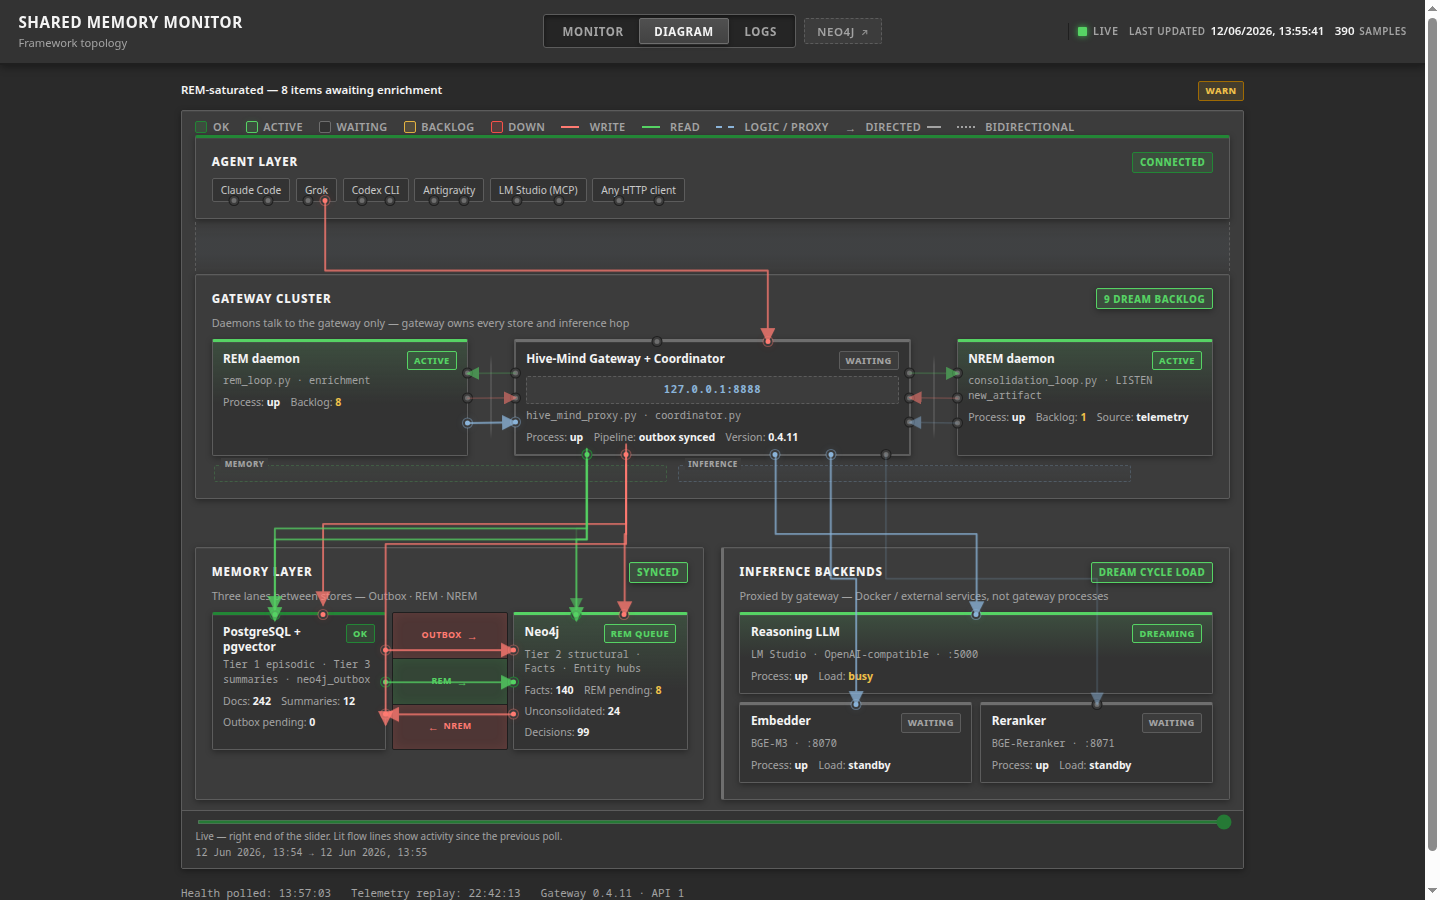
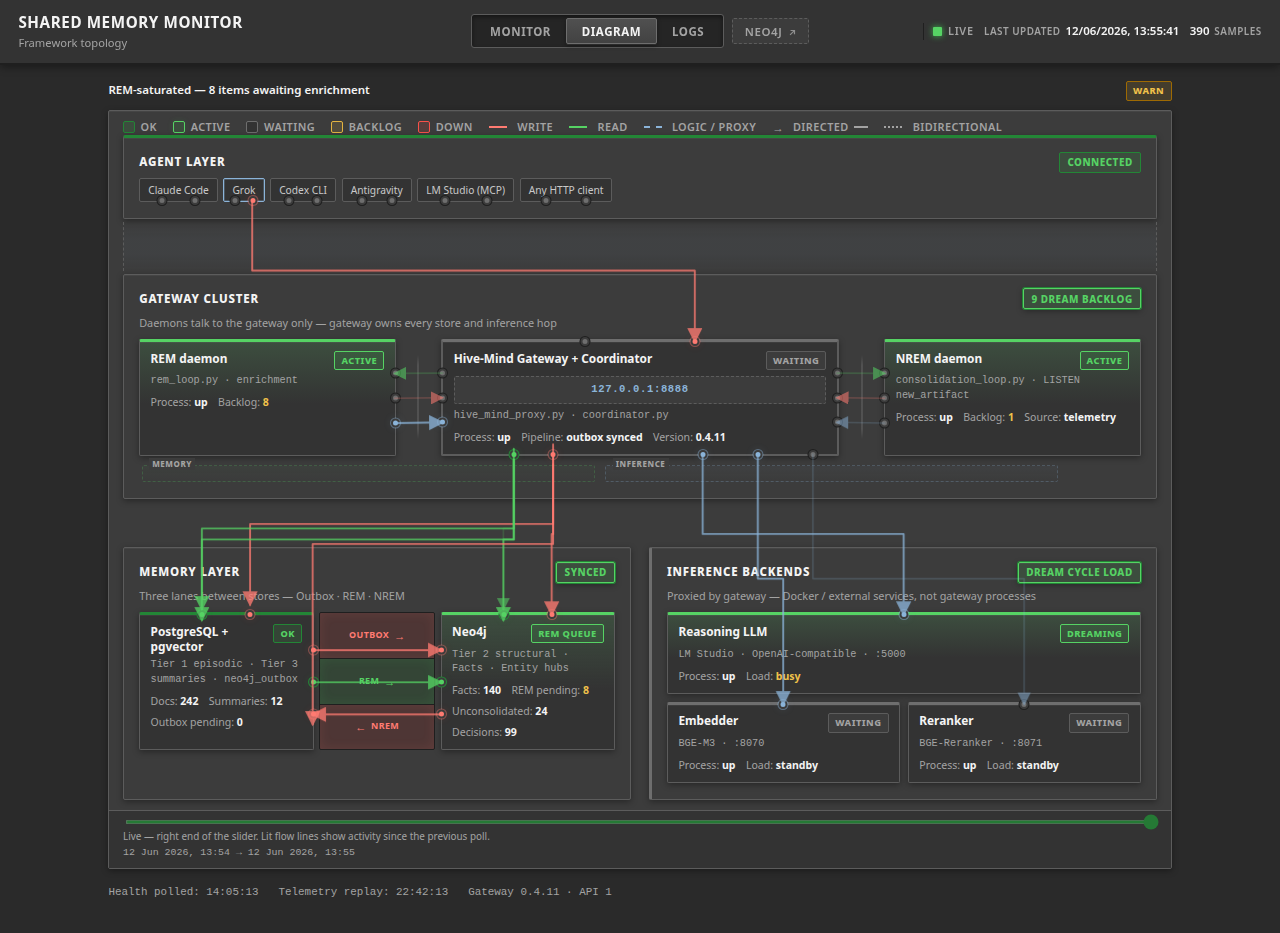
Release v0.3.7: full-page diagram screenshot
Replace viewport-only Chrome capture with Playwright full-page shots
that wait for diagram history and flows to load. Regenerate README
images so GitHub shows the complete gateway topology outline.

diff --git a/static/diagram.html b/static/diagram.html
@@ -1227,6 +1227,10 @@ async function boot() {
   tlIndex = Math.max(0, sampleCount() - 1);
   syncHealthPolling();
   applyView();
+  if (new URLSearchParams(location.search).has("capture")) {
+    await new Promise((resolve) => requestAnimationFrame(() => requestAnimationFrame(resolve)));
+    document.body.dataset.diagramReady = "1";
+  }
 }
 boot();
 window.addEventListener("resize", () => applyView());

diff --git a/scripts/capture_screenshots.py b/scripts/capture_screenshots.py
@@ -1,0 +1,56 @@
+#!/usr/bin/env python3
+"""Capture README screenshots from a running monitor (full-page, data-aware)."""
+from __future__ import annotations
+
+import os
+import sys
+import urllib.error
+import urllib.request
+from pathlib import Path
+
+from playwright.sync_api import sync_playwright
+
+ROOT = Path(__file__).resolve().parent.parent
+OUT = ROOT / "docs" / "images"
+BASE = os.environ.get("SM_SCREENSHOT_URL", "http://127.0.0.1:8765").rstrip("/")
+
+PAGES: list[tuple[str, str, dict[str, int]]] = [
+    ("dashboard.png", "/", {"width": 1440, "height": 900}),
+    ("diagram.png", "/diagram?capture=1", {"width": 1280, "height": 900}),
+    ("logs.png", "/logs", {"width": 1440, "height": 900}),
+]
+
+
+def _probe() -> None:
+    try:
+        with urllib.request.urlopen(f"{BASE}/api/meta", timeout=8) as resp:
+            if resp.status != 200:
+                raise urllib.error.URLError(f"HTTP {resp.status}")
+    except Exception as exc:
+        print(f"Monitor not reachable at {BASE} — start it first:", file=sys.stderr)
+        print("  ./scripts/run-loop.sh --serve --interval 600", file=sys.stderr)
+        print(f"  ({exc})", file=sys.stderr)
+        sys.exit(1)
+
+
+def main() -> None:
+    _probe()
+    OUT.mkdir(parents=True, exist_ok=True)
+
+    with sync_playwright() as p:
+        browser = p.chromium.launch(headless=True)
+        for name, path, viewport in PAGES:
+            page = browser.new_page(viewport=viewport)
+            page.goto(f"{BASE}{path}", wait_until="networkidle", timeout=60_000)
+            if "diagram" in path:
+                page.wait_for_selector("body[data-diagram-ready='1']", timeout=60_000)
+            target = OUT / name
+            page.screenshot(path=str(target), full_page=True)
+            print(f"wrote {target}")
+        browser.close()
+
+    print("Screenshots ready under docs/images/ — commit and push to update the GitHub project page.")
+
+
+if __name__ == "__main__":
+    main()

diff --git a/src/sm_telemetry_monitor/__init__.py b/src/sm_telemetry_monitor/__init__.py
@@ -1,3 +1,3 @@
 """Shared-memory telemetry monitor — poll gateway stats and chart progress."""
 
-__version__ = "0.3.6"
+__version__ = "0.3.7"

diff --git a/CHANGELOG.md b/CHANGELOG.md
@@ -6,6 +6,14 @@ Format based on [Keep a Changelog](https://keepachangelog.com/en/1.1.0/).
 
 ## [Unreleased]
 
+## [0.3.7] - 2026-06-12
+
+### Fixed
+
+- **README diagram screenshot** — `capture-screenshots.sh` now uses Playwright
+  full-page capture and waits for diagram telemetry/history before shooting
+  (fixes cropped/outdated topology on GitHub)
+
 ## [0.3.6] - 2026-06-12
 
 ### Changed
@@ -123,7 +131,8 @@ Format based on [Keep a Changelog](https://keepachangelog.com/en/1.1.0/).
 - `.env` and `.grok/` gitignored; doctor never prints credential values
 - Error sanitization for tokens and connection strings
 
-[Unreleased]: https://github.com/KanenasInGreece/Shared_Memory_Monitor/compare/v0.3.6...main
+[Unreleased]: https://github.com/KanenasInGreece/Shared_Memory_Monitor/compare/v0.3.7...main
+[0.3.7]: https://github.com/KanenasInGreece/Shared_Memory_Monitor/releases/tag/v0.3.7
 [0.3.6]: https://github.com/KanenasInGreece/Shared_Memory_Monitor/releases/tag/v0.3.6
 [0.3.5]: https://github.com/KanenasInGreece/Shared_Memory_Monitor/releases/tag/v0.3.5
 [0.3.4]: https://github.com/KanenasInGreece/Shared_Memory_Monitor/releases/tag/v0.3.4

diff --git a/README.md b/README.md
@@ -36,7 +36,7 @@ Three tabs: **Gateway daemons** (`journalctl --user`), **REM audit** (outbox rev
 
 ![Logs — gateway journal, REM audit, and agent audit with filters](docs/images/logs.png)
 
-Regenerate after UI changes: `./scripts/capture-screenshots.sh` (requires headless Chrome and a running monitor).
+Regenerate after UI changes: `./scripts/capture-screenshots.sh` (uses Playwright via `uv`, full-page capture, waits for live diagram data — monitor must be running).
 
 ## Prerequisites
 
@@ -461,7 +461,8 @@ shared-memory-monitor/
 │   ├── install-systemd-user.sh  # user unit → ~/.config/systemd/user/
 │   ├── pre-publish-check.sh   # secret audit before git push
 │   ├── publish.sh             # audit + push origin/main
-│   ├── capture-screenshots.sh # README UI captures (headless Chrome)
+│   ├── capture-screenshots.sh # README UI captures (Playwright full-page)
+│   ├── capture_screenshots.py # capture helper (invoked by shell script)
 │   ├── check-env.sh     # Framework wiring doctor
 │   ├── run-loop.sh      # Poll loop (optional --serve)
 │   └── serve.sh         # Dashboard only